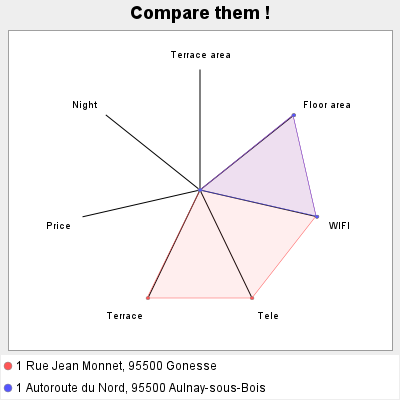
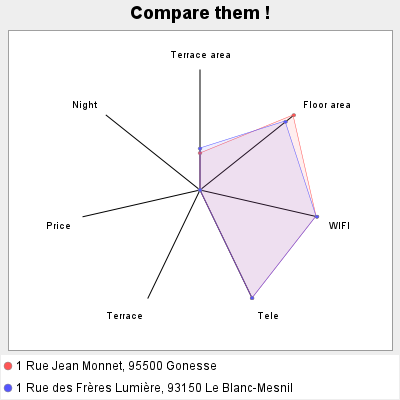
Correcting AVF

diff --git a/src/main/java/io/github/oliviercailloux/y2021/apartments/plot/SpiderPlot.java b/src/main/java/io/github/oliviercailloux/y2021/apartments/plot/SpiderPlot.java
@@ -27,14 +27,12 @@ public class SpiderPlot {
 
 	private static final Logger LOGGER = LoggerFactory.getLogger(SpiderPlot.class);
 
-	public static SpiderPlot given(Apartment apartment1, Apartment apartment2, ApartmentValueFunction avf1,
-			ApartmentValueFunction avf2) {
-		return new SpiderPlot(apartment1, apartment2, avf1, avf2);
+	public static SpiderPlot given(Apartment apartment1, Apartment apartment2, ApartmentValueFunction avf) {
+		return new SpiderPlot(apartment1, apartment2, avf);
 	}
 
-	private SpiderPlot(Apartment apartment1, Apartment apartment2, ApartmentValueFunction avf1,
-			ApartmentValueFunction avf2) {
-		createImgChart(createChart(toCategoryDataset(apartment1, apartment2, avf1, avf2)));
+	private SpiderPlot(Apartment apartment1, Apartment apartment2, ApartmentValueFunction avf) {
+		createImgChart(createChart(toCategoryDataset(apartment1, apartment2, avf)));
 	}
 
 	/*
@@ -65,39 +63,39 @@ public class SpiderPlot {
 	 * @return a dataset of type CategoryDataset
 	 */
 	private static CategoryDataset toCategoryDataset(Apartment apartment1, Apartment apartment2,
-			ApartmentValueFunction avf1, ApartmentValueFunction avf2) {
+			ApartmentValueFunction avf) {
 		DefaultCategoryDataset dataset = new DefaultCategoryDataset();
 
-		dataset.addValue(avf1.getDoubleValueFunction(Criterion.FLOOR_AREA_TERRACE)
+		dataset.addValue(avf.getDoubleValueFunction(Criterion.FLOOR_AREA_TERRACE)
 				.getSubjectiveValue(apartment1.getFloorAreaTerrace()), apartment1.getAddress(), "Terrace area");
-		dataset.addValue(
-				avf1.getDoubleValueFunction(Criterion.FLOOR_AREA).getSubjectiveValue(apartment1.getFloorArea()),
+		dataset.addValue(avf.getDoubleValueFunction(Criterion.FLOOR_AREA).getSubjectiveValue(apartment1.getFloorArea()),
 				apartment1.getAddress(), "Floor area");
-		dataset.addValue(avf1.getBooleanValueFunction(Criterion.WIFI).getSubjectiveValue(apartment1.getWifi()),
+		dataset.addValue(avf.getBooleanValueFunction(Criterion.WIFI).getSubjectiveValue(apartment1.getWifi()),
 				apartment1.getAddress(), "WIFI");
-		dataset.addValue(avf1.getBooleanValueFunction(Criterion.TELE).getSubjectiveValue(apartment1.getTele()),
+		dataset.addValue(avf.getBooleanValueFunction(Criterion.TELE).getSubjectiveValue(apartment1.getTele()),
 				apartment1.getAddress(), "Tele");
-		dataset.addValue(avf1.getBooleanValueFunction(Criterion.TERRACE).getSubjectiveValue(apartment1.getTerrace()),
+		dataset.addValue(avf.getBooleanValueFunction(Criterion.TERRACE).getSubjectiveValue(apartment1.getTerrace()),
 				apartment1.getAddress(), "Terrace");
-		dataset.addValue(avf1.getDoubleValueFunction(Criterion.PRICE_PER_NIGHT)
-				.getSubjectiveValue(apartment1.getPricePerNight()), apartment1.getAddress(), "Price");
-		dataset.addValue(avf1.getDoubleValueFunction(Criterion.NB_MIN_NIGHT)
+		dataset.addValue(
+				avf.getDoubleValueFunction(Criterion.PRICE_PER_NIGHT).getSubjectiveValue(apartment1.getPricePerNight()),
+				apartment1.getAddress(), "Price");
+		dataset.addValue(avf.getDoubleValueFunction(Criterion.NB_MIN_NIGHT)
 				.getSubjectiveValue((double) apartment1.getNbMinNight()), apartment1.getAddress(), "Night");
 
-		dataset.addValue(avf2.getDoubleValueFunction(Criterion.FLOOR_AREA_TERRACE)
+		dataset.addValue(avf.getDoubleValueFunction(Criterion.FLOOR_AREA_TERRACE)
 				.getSubjectiveValue(apartment2.getFloorAreaTerrace()), apartment2.getAddress(), "Terrace area");
-		dataset.addValue(
-				avf2.getDoubleValueFunction(Criterion.FLOOR_AREA).getSubjectiveValue(apartment2.getFloorArea()),
+		dataset.addValue(avf.getDoubleValueFunction(Criterion.FLOOR_AREA).getSubjectiveValue(apartment2.getFloorArea()),
 				apartment2.getAddress(), "Floor area");
-		dataset.addValue(avf2.getBooleanValueFunction(Criterion.WIFI).getSubjectiveValue(apartment2.getWifi()),
+		dataset.addValue(avf.getBooleanValueFunction(Criterion.WIFI).getSubjectiveValue(apartment2.getWifi()),
 				apartment2.getAddress(), "WIFI");
-		dataset.addValue(avf2.getBooleanValueFunction(Criterion.TELE).getSubjectiveValue(apartment2.getTele()),
+		dataset.addValue(avf.getBooleanValueFunction(Criterion.TELE).getSubjectiveValue(apartment2.getTele()),
 				apartment2.getAddress(), "Tele");
-		dataset.addValue(avf2.getBooleanValueFunction(Criterion.TERRACE).getSubjectiveValue(apartment2.getTerrace()),
+		dataset.addValue(avf.getBooleanValueFunction(Criterion.TERRACE).getSubjectiveValue(apartment2.getTerrace()),
 				apartment2.getAddress(), "Terrace");
-		dataset.addValue(avf2.getDoubleValueFunction(Criterion.PRICE_PER_NIGHT)
-				.getSubjectiveValue(apartment2.getPricePerNight()), apartment2.getAddress(), "Price");
-		dataset.addValue(avf2.getDoubleValueFunction(Criterion.NB_MIN_NIGHT)
+		dataset.addValue(
+				avf.getDoubleValueFunction(Criterion.PRICE_PER_NIGHT).getSubjectiveValue(apartment2.getPricePerNight()),
+				apartment2.getAddress(), "Price");
+		dataset.addValue(avf.getDoubleValueFunction(Criterion.NB_MIN_NIGHT)
 				.getSubjectiveValue((double) apartment2.getNbMinNight()), apartment2.getAddress(), "Night");
 		LOGGER.info("Successfully converted to CategoryDataset.");
 		return dataset;

diff --git a/src/test/java/io/github/oliviercailloux/y2021/apartments/plot/SpiderPlotTest.java b/src/test/java/io/github/oliviercailloux/y2021/apartments/plot/SpiderPlotTest.java
@@ -22,14 +22,13 @@ class SpiderPlotTest {
 
 		List<Apartment> listOfApartments = JsonConvert.getDefaultApartments();
 		Apartment apartment1 = listOfApartments.get(0);
-		Apartment apartment2 = listOfApartments.get(1);
-		ApartmentValueFunction avf1 = ApartmentValueFunction.getRandomApartmentValueFunction();
-		ApartmentValueFunction avf2 = ApartmentValueFunction.getRandomApartmentValueFunction();
+		Apartment apartment2 = listOfApartments.get(10);
+		ApartmentValueFunction avf = ApartmentValueFunction.getRandomApartmentValueFunction();
 
 		if (file.exists())
 			file.delete();
 
-		SpiderPlot.given(apartment1, apartment2, avf1, avf2);
+		SpiderPlot.given(apartment1, apartment2, avf);
 		assertTrue(file.exists());
 	}
 
